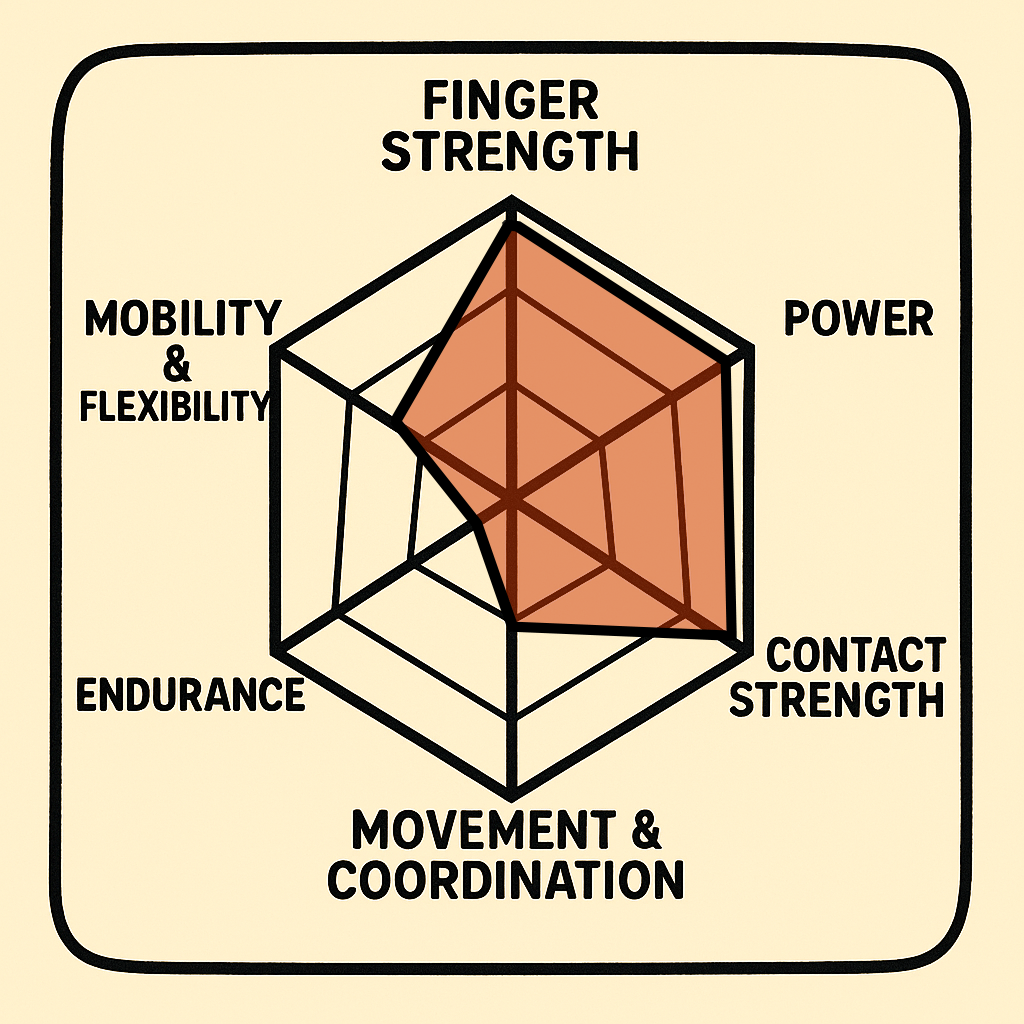
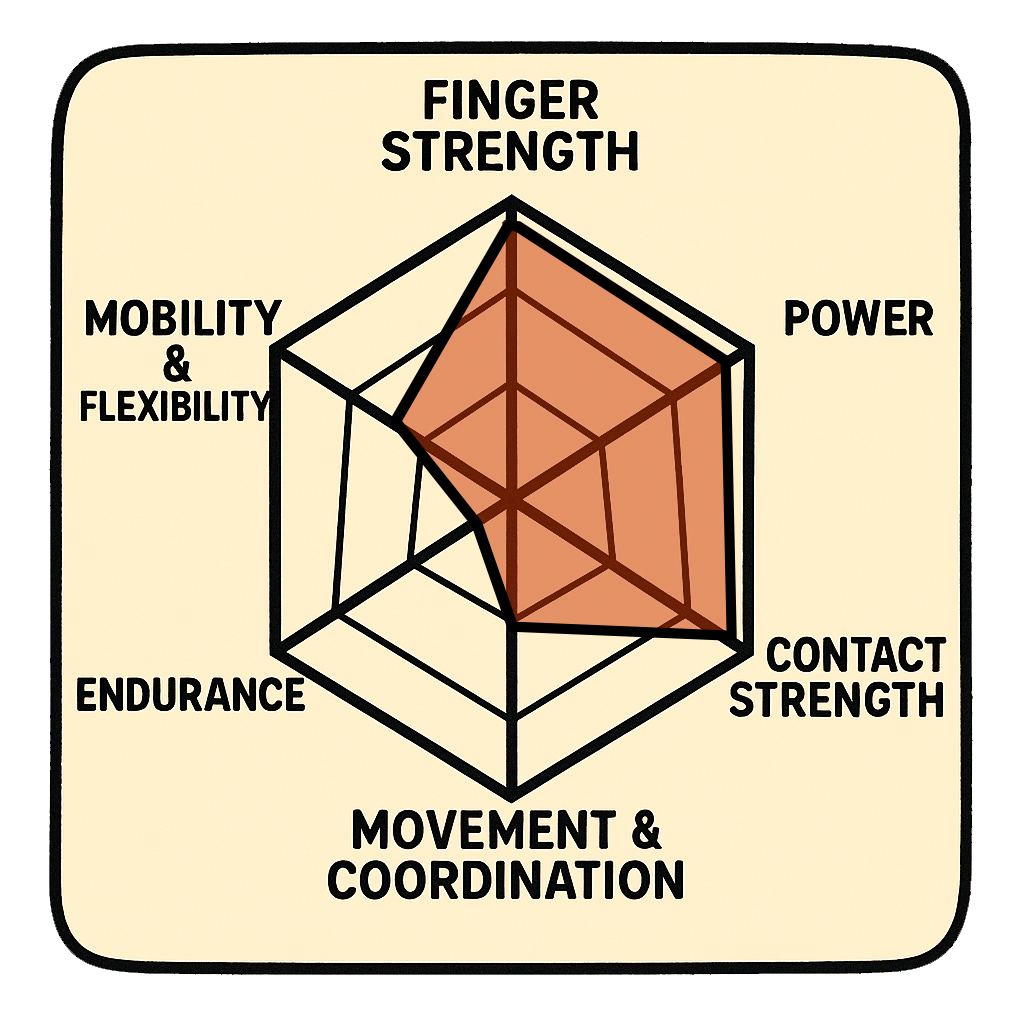
Teheme changes again

Changed region(s): [[0.0, 0.0, 1.0, 1.0]]

diff --git a/_sass/_footer.scss b/_sass/_footer.scss
@@ -11,7 +11,7 @@
 footer {
   @include center(rem(800px));
   border-top: 1px solid darken($accentDark, 10%);
-  background: #e8eae6;
+  background: $contentBg;
   padding: rem(20px) rem(25px);
   margin-top: rem(50px);
   margin-bottom: rem(120px);
@@ -56,7 +56,7 @@ footer {
     fill: #808080;
     transition: all 0.3s ease;
     text-decoration: none;
-    color: #808080;
+    color: $lightGray;
     
     &:hover {
       fill: $themeColor;

diff --git a/_sass/_normalize.scss b/_sass/_normalize.scss
@@ -1,6 +1,9 @@
 // Based on Kouto Swiss normalize function
 // https://github.com/leny/kouto-swiss/edit/master/lib/kouto-swiss/reset/normalize.styl
 
+@import "theme";
+@import "variables";
+
 html {
   font-family: sans-serif;
   line-height: 1.15;
@@ -10,7 +13,7 @@ html {
 
 body {
   margin: 0;
-  background-color: #e8eae6; // Or whatever you want
+  background-color: $contentBg; // Or whatever you want
 }
 
 article,

diff --git a/_sass/_variables.scss b/_sass/_variables.scss
@@ -6,6 +6,7 @@ $themeColor: map-get($theme, themeColor) !default;
 $primaryDark: map-get($theme, primaryDark) !default;
 $accentDark: map-get($theme, accentDark) !default;
 $lightGray: map-get($theme, lightGray) !default;
+$contentBg: map-get($theme, contentBg);
 $texts: map-get($theme, texts) !default;
 
 // Breakpoints

diff --git a/_sass/_theme.scss b/_sass/_theme.scss
@@ -1,8 +1,11 @@
 $theme: (
   themeColor: #1c3329,
   primaryDark: #1c3329,
-  accentDark: #ffffff,
-  lightGray: #f2f2f2,
+  accentDark: #fdfaf7,
+  lightGray: #525252,
   texts: #333333,
-  contentBg: #f4f3f0
+  contentBg: #efe7de
+  // f7e8d6
+  // fbe8c3
 );
+

diff --git a/_sass/_header.scss b/_sass/_header.scss
@@ -99,7 +99,7 @@ body.main-page {
 body.light:not(.main-page) {
   .bar-header {
     box-shadow: 0px 0px 1px 1px rgba(0, 0, 0, 0.1);
-    background-color: #f4f3f0;
+    background-color: $contentBg;
 
     .icon-search,
     .icon-menu {

diff --git a/_sass/_menu.scss b/_sass/_menu.scss
@@ -34,7 +34,7 @@ aside.sidebar {
   height: 100%;
   top: 0;
   left: rem(-240px);
-  background-color: $accentDark;
+  background-color: $contentBg;
   z-index: 20;
 
   @include media(">=sm") {

diff --git a/_posts/2025-03-12-BELIEVE.md b/_posts/2025-03-12-BELIEVE.md
@@ -47,7 +47,7 @@ The body machined from a solid block aluminum and sandblasted to a clean, matte 
 
 <img src = "/files/BELIEVE_BOARD/wellrounded.png" width = "500">
 
-> The goal, relatively speaking. Well rounded, for sure.
+> The goal, relatively speaking. Well rounded.
 
 ## Design
 
